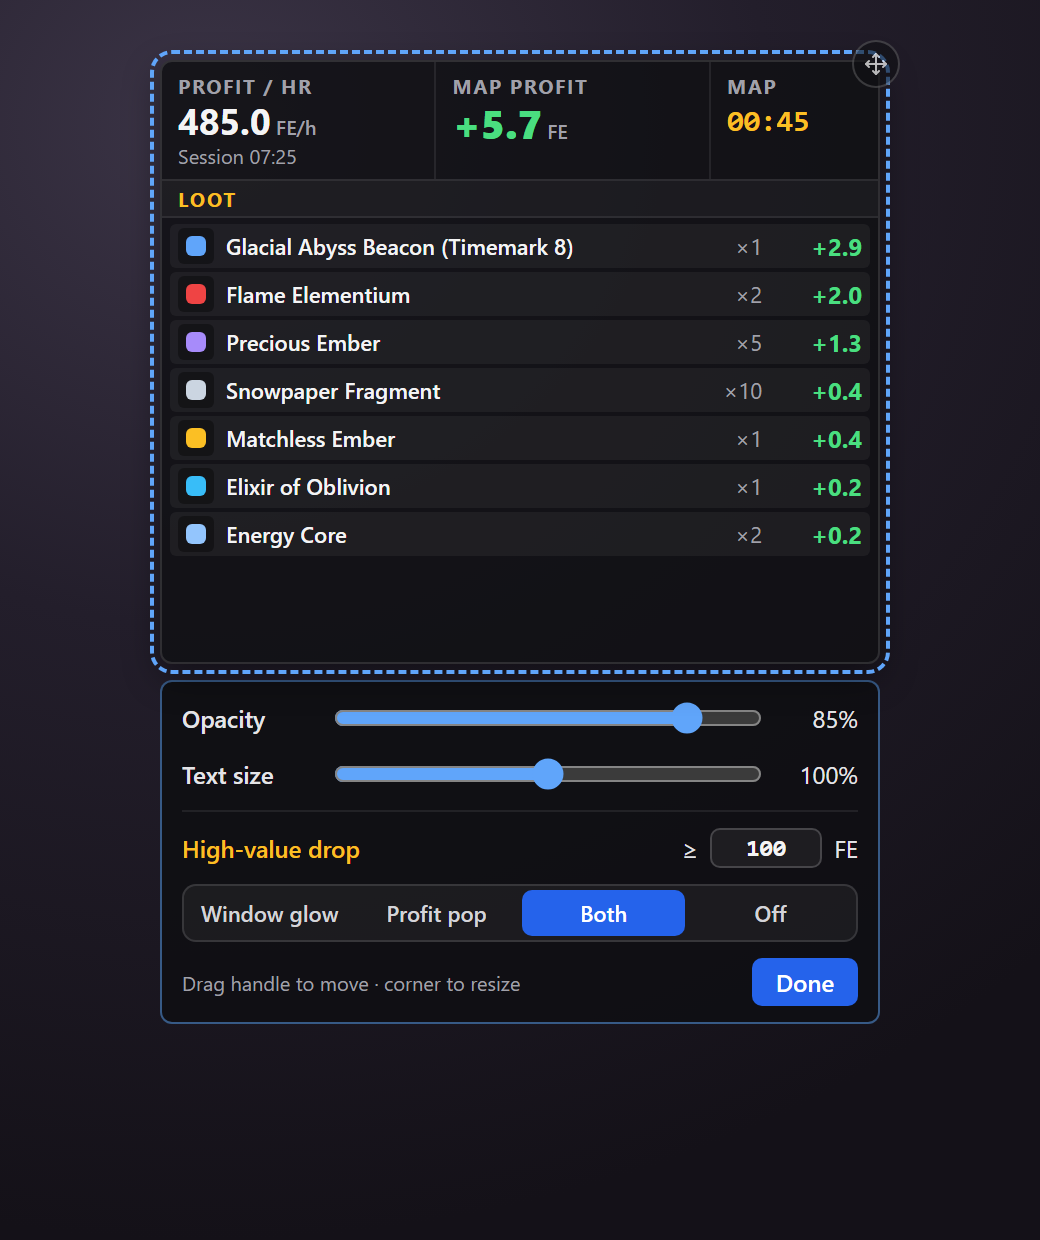
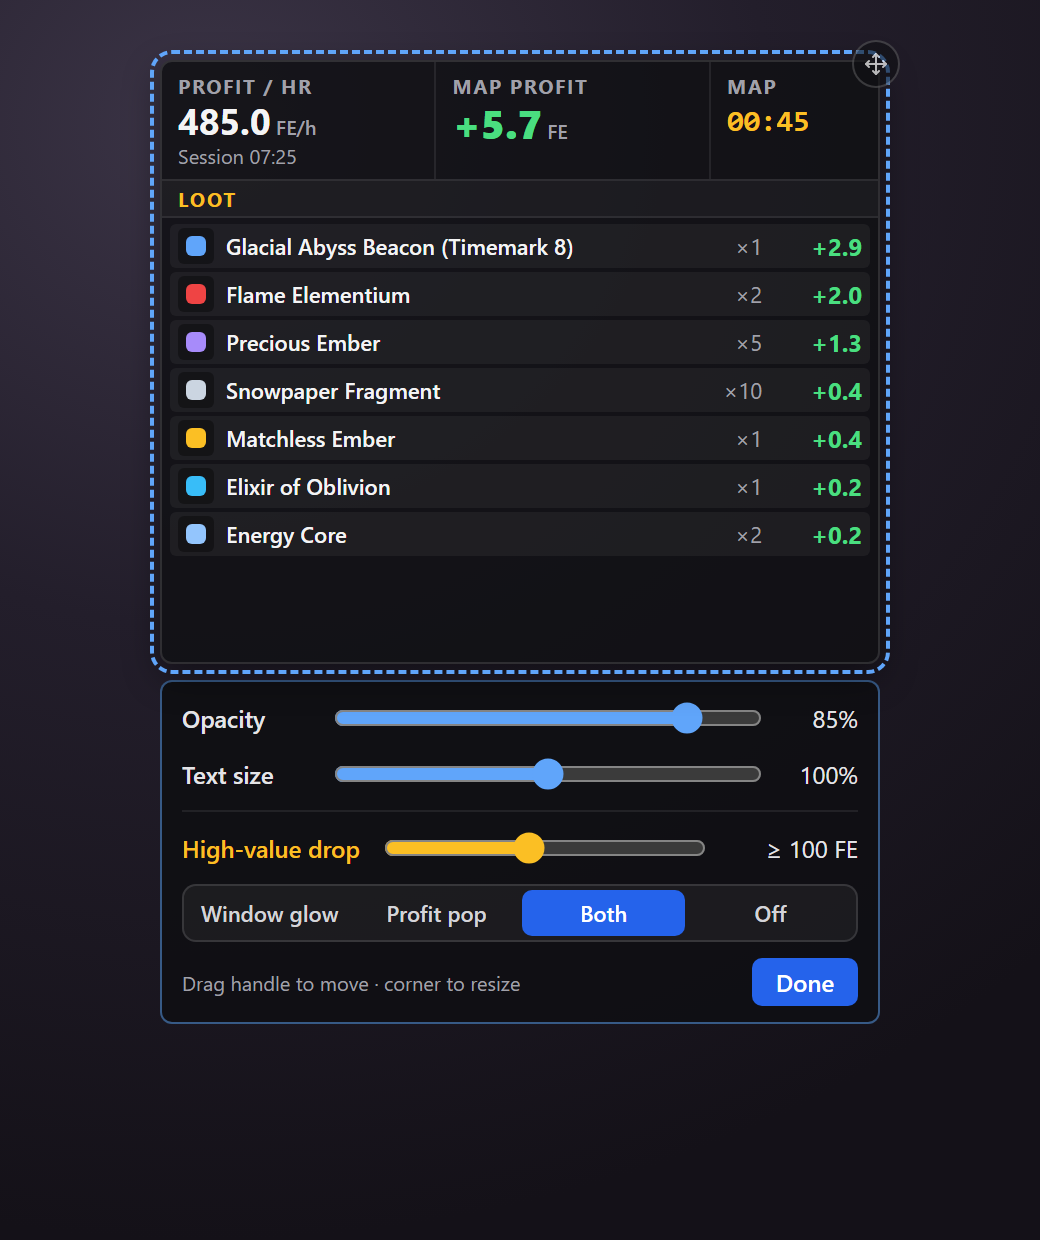
fix(compact): set the high-value amount with a slider
The overlay never takes keyboard focus from the game, so the text field
for the high-value drop amount could be clicked but not typed into. It is
now a slider over fixed steps (Off, 10 … 5000 FE), like Opacity and Text
size.

Changed region(s): [[0.3692, 0.6742, 0.6769, 0.7048], [0.7077, 0.6742, 0.8, 0.7048]]

diff --git a/src/components/CompactWindow.vue b/src/components/CompactWindow.vue
@@ -188,19 +188,18 @@
         <span class="w-[36px] text-right text-[12px]" style="color: #e4e4e7;">{{ Math.round(fs * 100) }}%</span>
       </div>
       <div class="h-px" style="background: rgba(255,255,255,0.08);" />
-      <div class="flex items-center gap-[6px] text-[12px]" style="color: #e4e4e7;">
-        <label for="compact-window-high-value" class="font-semibold" style="color: #fbbf24;">High-value drop</label>
-        <span class="ml-auto">≥</span>
+      <div class="flex items-center gap-[10px]">
+        <label for="compact-window-high-value" class="text-[12px] font-semibold whitespace-nowrap" style="color: #fbbf24;">High-value drop</label>
         <input
           id="compact-window-high-value"
-          type="text" inputmode="numeric" maxlength="6"
-          :value="store.compactHighValueThreshold"
-          @change="onThreshold"
-          @focus="($event.target as HTMLInputElement).select()"
-          class="w-[56px] px-[6px] py-[2px] rounded-[5px] text-center font-semibold"
-          style="font-family: Consolas, monospace; color: #f4f4f5; background: rgba(255,255,255,0.06); border: 1px solid rgba(255,255,255,0.18);"
+          type="range" min="0" :max="THRESHOLD_STEPS.length - 1" step="1"
+          :value="thresholdIndex"
+          :aria-valuetext="thresholdLabel"
+          @input="onThreshold"
+          class="flex-1 min-w-0"
+          style="accent-color: #fbbf24;"
         />
-        <span>FE</span>
+        <span class="w-[64px] text-right text-[12px] whitespace-nowrap" style="color: #e4e4e7;">{{ thresholdLabel }}</span>
       </div>
       <div role="group" aria-label="High-value drop effect" class="flex gap-[2px] p-[2px] rounded-[7px]" style="background: rgba(255,255,255,0.05); border: 1px solid rgba(255,255,255,0.12);">
         <button
@@ -309,6 +308,9 @@ const EFFECTS: { id: HighValueEffect; label: string }[] = [
   { id: 'off',  label: 'Off' },
 ];
 const FX_MS = 2600;
+// The overlay never takes keyboard focus from the game, so the threshold is a slider over
+// fixed steps instead of a text field. 0 turns marking and effects off.
+const THRESHOLD_STEPS = [0, 10, 20, 50, 100, 200, 500, 1000, 2000, 5000];
 
 const PANEL_GAP    = 6;
 const CFG_GAP      = 8;
@@ -623,11 +625,21 @@ function onFontScale(e: Event) {
   store.saveConfigToStorage();
 }
 
+const thresholdIndex = computed(() => {
+  const value = store.compactHighValueThreshold;
+  let best = 0;
+  THRESHOLD_STEPS.forEach((step, i) => {
+    if (Math.abs(step - value) < Math.abs(THRESHOLD_STEPS[best] - value)) best = i;
+  });
+  return best;
+});
+const thresholdLabel = computed(() => {
+  const value = THRESHOLD_STEPS[thresholdIndex.value];
+  return value === 0 ? 'Off' : `≥ ${value} FE`;
+});
+
 function onThreshold(e: Event) {
-  const el = e.target as HTMLInputElement;
-  const value = Math.max(0, Math.round(Number(el.value.replace(/[^0-9.]/g, '')) || 0));
-  store.compactHighValueThreshold = value;
-  el.value = String(value);
+  store.compactHighValueThreshold = THRESHOLD_STEPS[Number((e.target as HTMLInputElement).value)] ?? 100;
   store.saveConfigToStorage();
 }
 

diff --git a/docs/features/compact-window.md b/docs/features/compact-window.md
@@ -45,14 +45,14 @@ The list opens below the window if it fits, otherwise above, otherwise beside it
 
 ## High-value drop
 
-A drop worth at least the **High-value drop** amount (100 FE by default, after tax if tax is on) is marked with a gold diamond and a gold row for the rest of the map, and plays the chosen effect once:
+A drop worth at least the **High-value drop** amount (100 FE by default, after tax if tax is on; a drop's worth is price × quantity) is marked with a gold diamond and a gold row for the rest of the map, and plays the chosen effect once:
 
 - **Window glow:** the window's border flashes gold.
 - **Profit pop:** Map profit pops and glows gold, and a `+N FE` tag floats up over it.
 - **Both** (default): border flash and profit pop together.
 - **Off:** no effect; the row is still marked.
 
-Set the amount to 0 to turn marking off as well.
+The amount is a slider with steps: Off, 10, 20, 50, 100, 200, 500, 1000, 2000 and 5000 FE. It's a slider rather than a text field because the overlay never takes keyboard focus from the game. **Off** turns the marking off as well.
 
 ![A 505 FE drop with Both: gold border, Map profit pop with the +505 FE tag, marked row](img/compact-window/high-value-drop.png)
 
